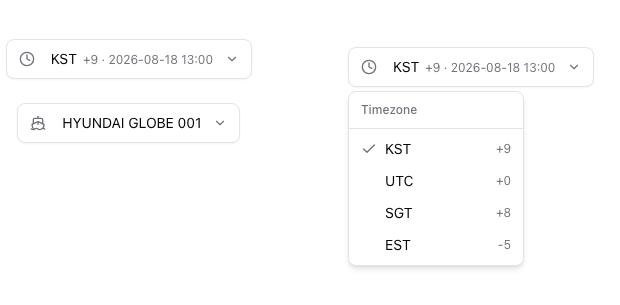
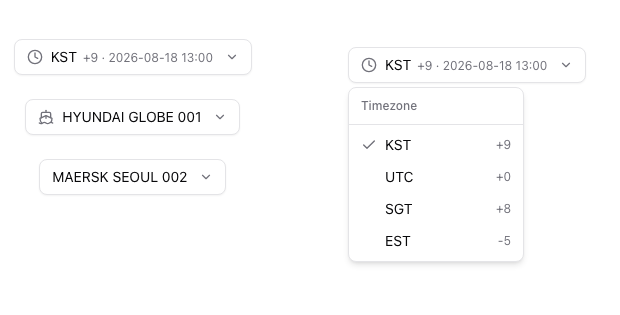
feat(365): UI 정비 6종 — IconSelect h-9·간격 8px·텍스트형 타입, StatePreview 프리셋(상단 중앙 플로팅), 소급 스캔 규칙, 사이드바 하단 구분선, 위저드 필하이트+하단 고정 바, 테이블 패딩 16px

diff --git a/components/src/ui/state-preview.tsx b/components/src/ui/state-preview.tsx
@@ -1,0 +1,56 @@
+"use client"
+
+// 상태 미리보기 — 생성 페이지 QA용 플로팅 필 (화면 상단 중앙 고정).
+// 본문·헤더에 임베드하지 않는다 — 리뷰 도구는 화면 위에 떠 있어야 화면을 가리지 않고 비교된다.
+
+import * as React from "react"
+import { cn } from "../lib/utils"
+
+export interface StatePreviewState {
+  value: string
+  label: string
+}
+
+const DEFAULT_STATES: StatePreviewState[] = [
+  { value: "default", label: "기본" },
+  { value: "empty", label: "빈" },
+  { value: "loading", label: "로딩" },
+  { value: "error", label: "에러" },
+]
+
+export interface StatePreviewProps {
+  value: string
+  onChange: (value: string) => void
+  states?: StatePreviewState[]
+  className?: string
+}
+
+function StatePreview({ value, onChange, states = DEFAULT_STATES, className }: StatePreviewProps) {
+  return (
+    <div
+      className={cn(
+        "fixed left-1/2 top-3 z-50 flex -translate-x-1/2 items-center gap-1 rounded-full border bg-background/95 p-1 shadow-sm backdrop-blur",
+        className
+      )}
+    >
+      <span className="px-2 text-[10px] font-medium tracking-wide text-muted-foreground">상태 미리보기</span>
+      {states.map((s) => (
+        <button
+          key={s.value}
+          type="button"
+          onClick={() => onChange(s.value)}
+          className={cn(
+            "h-7 rounded-full px-3 text-xs transition-colors",
+            s.value === value
+              ? "bg-primary text-primary-foreground"
+              : "text-muted-foreground hover:bg-accent hover:text-accent-foreground"
+          )}
+        >
+          {s.label}
+        </button>
+      ))}
+    </div>
+  )
+}
+
+export { StatePreview }

diff --git a/components/src/ui/icon-select.tsx b/components/src/ui/icon-select.tsx
@@ -25,7 +25,8 @@ export interface IconSelectItem {
 }
 
 export interface IconSelectProps {
-  icon: LucideIcon
+  /** 아이콘형/텍스트형 — 아이콘을 생략하면 텍스트형 트리거가 된다 */
+  icon?: LucideIcon
   value?: string
   items: IconSelectItem[]
   onValueChange?: (value: string) => void
@@ -51,9 +52,9 @@ function IconSelect({
   return (
     <DropdownMenu defaultOpen={defaultOpen}>
       <DropdownMenuTrigger asChild>
-        {/* 트리거: 아웃라인 · 높이 40px · 아이콘-텍스트 간격 2배(16px) · 라벨+시간 가로 한 줄 + 우측 4px */}
-        <Button variant="outline" className={cn("h-10 gap-2 px-3 font-normal", className)}>
-          <Icon className="mr-2 size-4 shrink-0 text-muted-foreground" />
+        {/* 트리거: 아웃라인 · 높이 36px(h-9, CTA·인풋과 동일 스케일) · 아이콘 간격 8px · 라벨+시간 가로 한 줄 + 우측 4px */}
+        <Button variant="outline" className={cn("h-9 gap-2 px-3 font-normal", className)}>
+          {Icon ? <Icon className="size-4 shrink-0 text-muted-foreground" /> : null}
           <span className="flex min-w-0 items-baseline gap-1.5 pr-1">
             <span className="truncate text-sm">{current?.label ?? "선택"}</span>
             {sub ? (

diff --git a/components/src/ui/table.tsx b/components/src/ui/table.tsx
@@ -70,7 +70,7 @@ function TableHead({ className, ...props }: React.ComponentProps<"th">) {
     <th
       data-slot="table-head"
       className={cn(
-        "h-10 px-3 text-left align-middle font-medium whitespace-nowrap text-foreground [&:has([role=checkbox])]:pr-0 [&>[role=checkbox]]:translate-y-[2px]",
+        "h-10 px-4 text-left align-middle font-medium whitespace-nowrap text-foreground [&:has([role=checkbox])]:pr-0 [&>[role=checkbox]]:translate-y-[2px]",
         className
       )}
       {...props}
@@ -83,7 +83,7 @@ function TableCell({ className, ...props }: React.ComponentProps<"td">) {
     <td
       data-slot="table-cell"
       className={cn(
-        "px-3 py-2 align-middle whitespace-nowrap [&:has([role=checkbox])]:pr-0 [&>[role=checkbox]]:translate-y-[2px]",
+        "px-4 py-2 align-middle whitespace-nowrap [&:has([role=checkbox])]:pr-0 [&>[role=checkbox]]:translate-y-[2px]",
         className
       )}
       {...props}

diff --git a/playground/app/shadcn-preview/icon-select/page.tsx b/playground/app/shadcn-preview/icon-select/page.tsx
@@ -25,6 +25,7 @@ export default function Page() {
       <div className="flex flex-col items-center gap-6">
         <IconSelect icon={Clock} value="KST" sub="+9 · 2026-08-18 13:00" items={TZ} heading="Timezone" />
         <IconSelect icon={Ship} value="s1" items={SHIPS} />
+        <IconSelect value="s2" items={SHIPS} />
       </div>
       <div className="pt-2">
         <IconSelect icon={Clock} value="KST" sub="+9 · 2026-08-18 13:00" items={TZ} heading="Timezone" defaultOpen align="start" />

diff --git a/CLAUDE.md b/CLAUDE.md
@@ -27,6 +27,9 @@ AI 친화 디자인 시스템 저장소다.
    훅이 자동 재동기화한다. 그래도 생성 직전에는 `git pull` 1회를 직접 실행한다
    (원격 최신 DS·채택 목록 반영). pull 결과에 CLAUDE.md 변경이 포함되어 있으면
    CLAUDE.md를 다시 읽고 새 절차를 따른다.
+   **pull에 approved.json·ds365.json 변경이 포함되면** 새 항목의 노트까지 읽고,
+   기존 생성 화면(`playground/app/generated/`)에 소급 적용 대상이 있는지 1회 스캔해
+   보고한다 — 적용 자체는 요청자 승인 후.
 1. **규정 검토** — `regulations/`에서 해당 제품 파일 확인. 충돌·주의사항이 있으면
    생성 전에 알리고 확인받는다. 파일이 없으면 한 줄 보고 후 진행.
 2. **규칙·어휘 로드** — `design.md` 전체 + `playground/public/approved.json`(채택 어휘)
@@ -61,6 +64,8 @@ AI 친화 디자인 시스템 저장소다.
    만들고 끝까지 그 파일만 다듬는다. 첫 산출은 레이아웃·컴포넌트 배치 위주의 **뼈대**
    (최대치 실행 금지). 이후 수정 요청은 **재생성 없이 해당 부분만 수술**한다.
    모든 화면은 **기본·빈·로딩·에러** 4개 상태를 포함한다(추가 상태는 요청 시).
+   상태 전환 UI는 `@ds/ui`의 **`StatePreview` 프리셋**(상단 중앙 플로팅 필)을 쓴다 —
+   본문·헤더에 임베드하지 않는다.
    **산출물의 목적은 화면 이해(시각 스펙)다** — 인터랙션·마이크로 디테일도 요청 시에만.
 5. **self-check** — 임의 값이 없는지 확인:
    `grep -nE '#[0-9a-fA-F]{3,6}|-\[' playground/app/generated/<이름>/page.tsx` → 결과 없어야 함.

diff --git a/layout/body-patterns.md b/layout/body-patterns.md
@@ -26,8 +26,10 @@
 
 - 상단 `Stepper`(완료 체크·현재 강조·미래 muted). 3단계 미만이면 일반 폼 또는 `Dialog`.
 - 단계당 하나의 폼 영역: 섹션 라벨 + `Field` 그리드.
-- **하단 고정 바는 본문 컬럼 안에서만** — 좌측 "커밋 전 저장되지 않음" 안내(muted),
-  우측 [이전](outline) · [다음/검증하고 계속](primary). 사이드바를 덮지 않는다.
+- **레이아웃은 필하이트**: 본문 영역이 잔여 높이를 전부 채우고 스크롤을 담당한다.
+  **하단 바(이전/다음)는 본문 컬럼 하단에 상시 고정** — 스크롤과 무관하게 항상 보인다.
+  좌측 "커밋 전 저장되지 않음" 안내(muted), 우측 [이전](outline) · [다음/검증하고
+  계속](primary). 본문 컬럼 안에서만 — 사이드바를 덮지 않는다.
 - 마지막 단계는 검토 요약(입력 값 kv 나열 + 단계별 수정 링크).
 
 ## 등재 규칙
